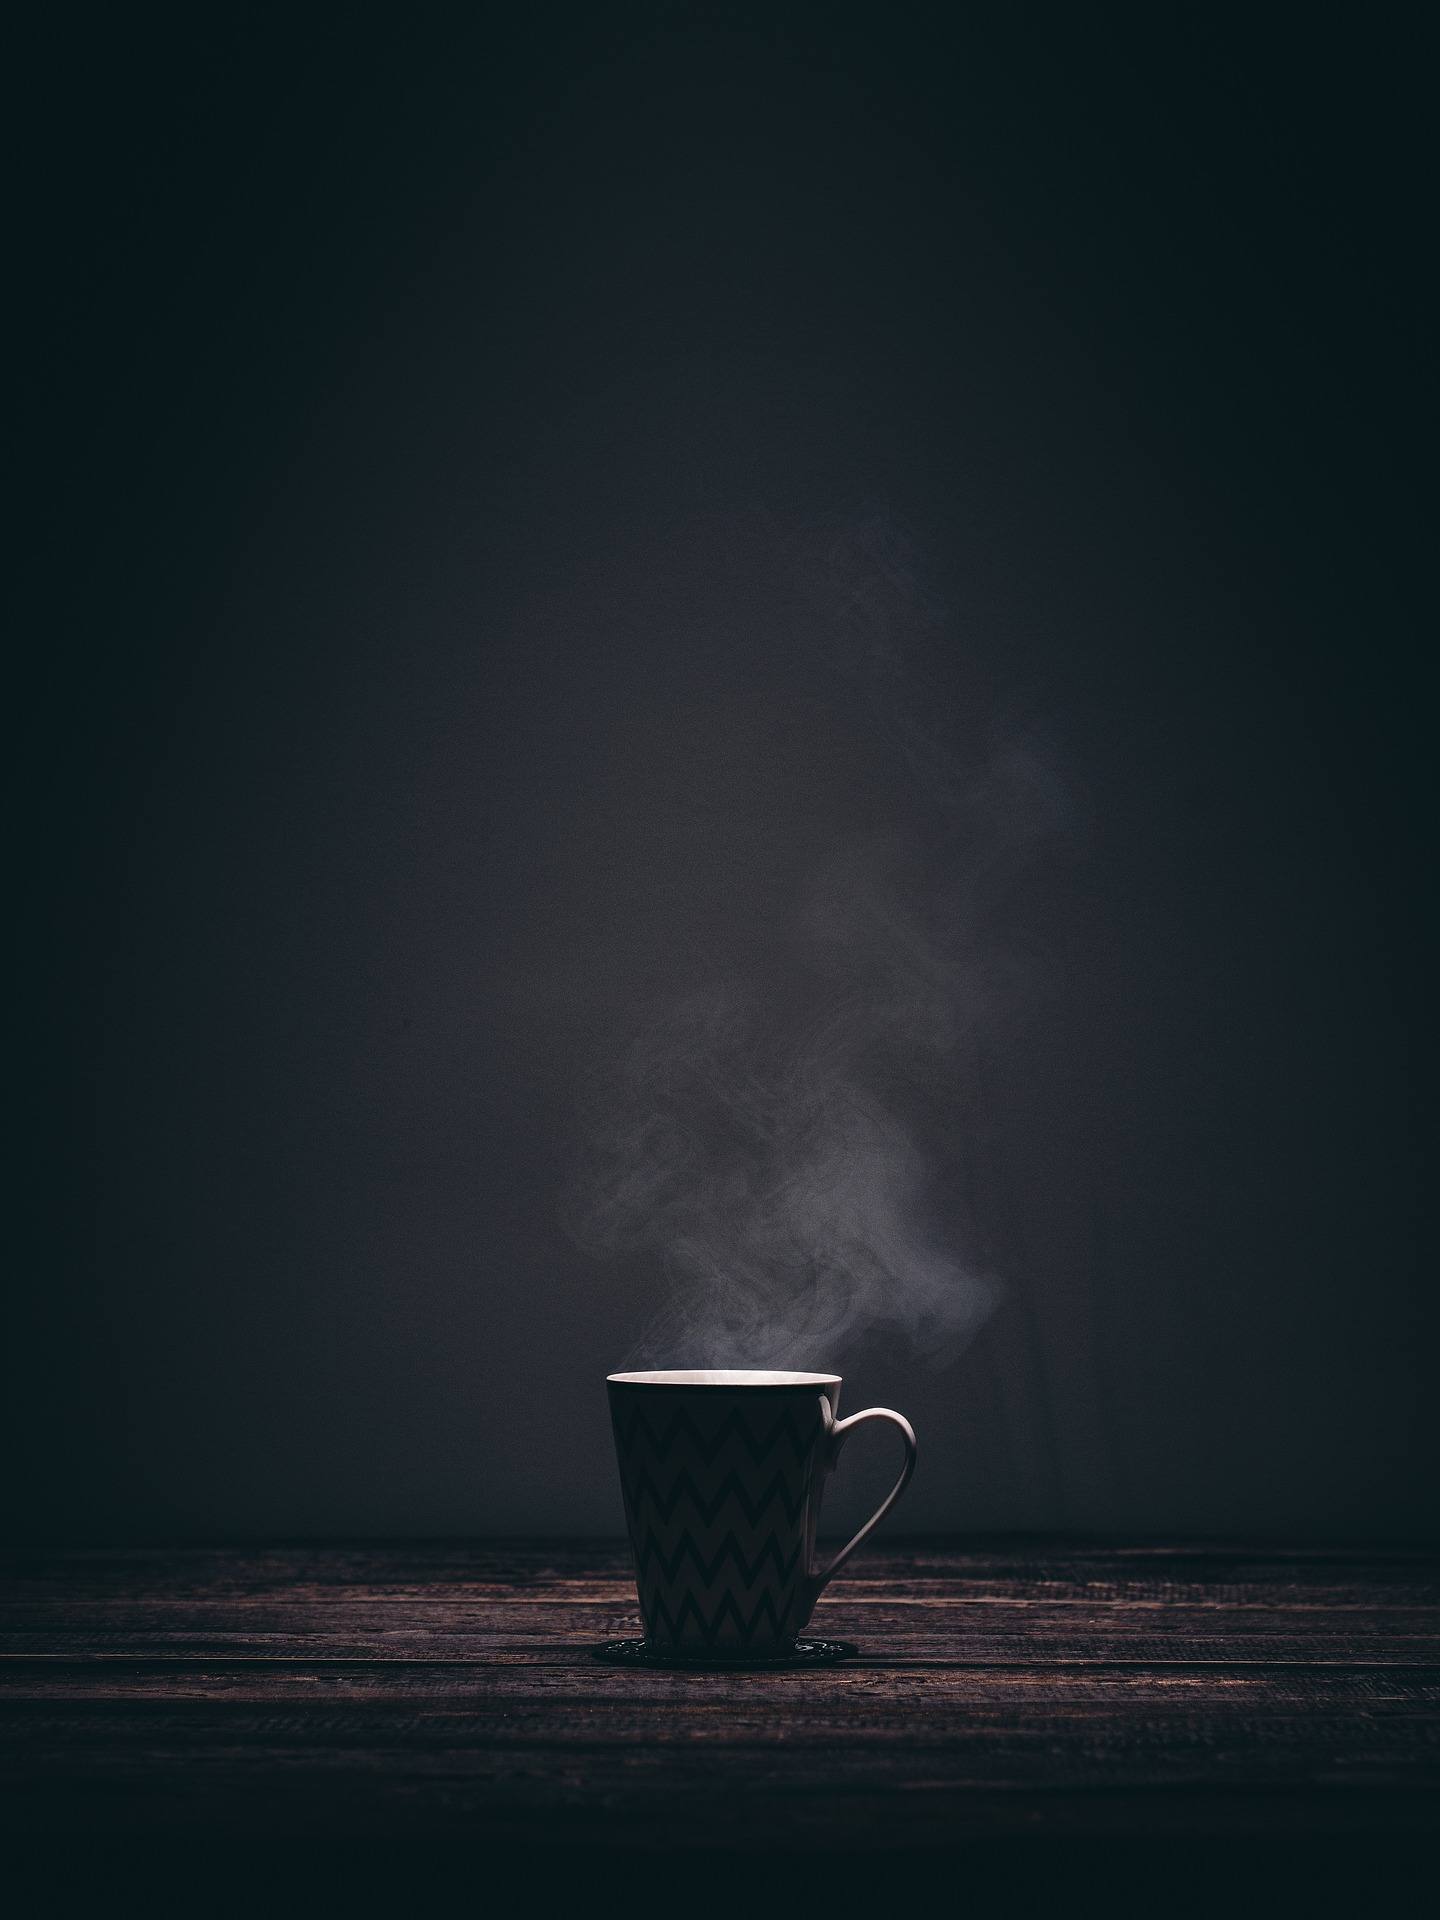
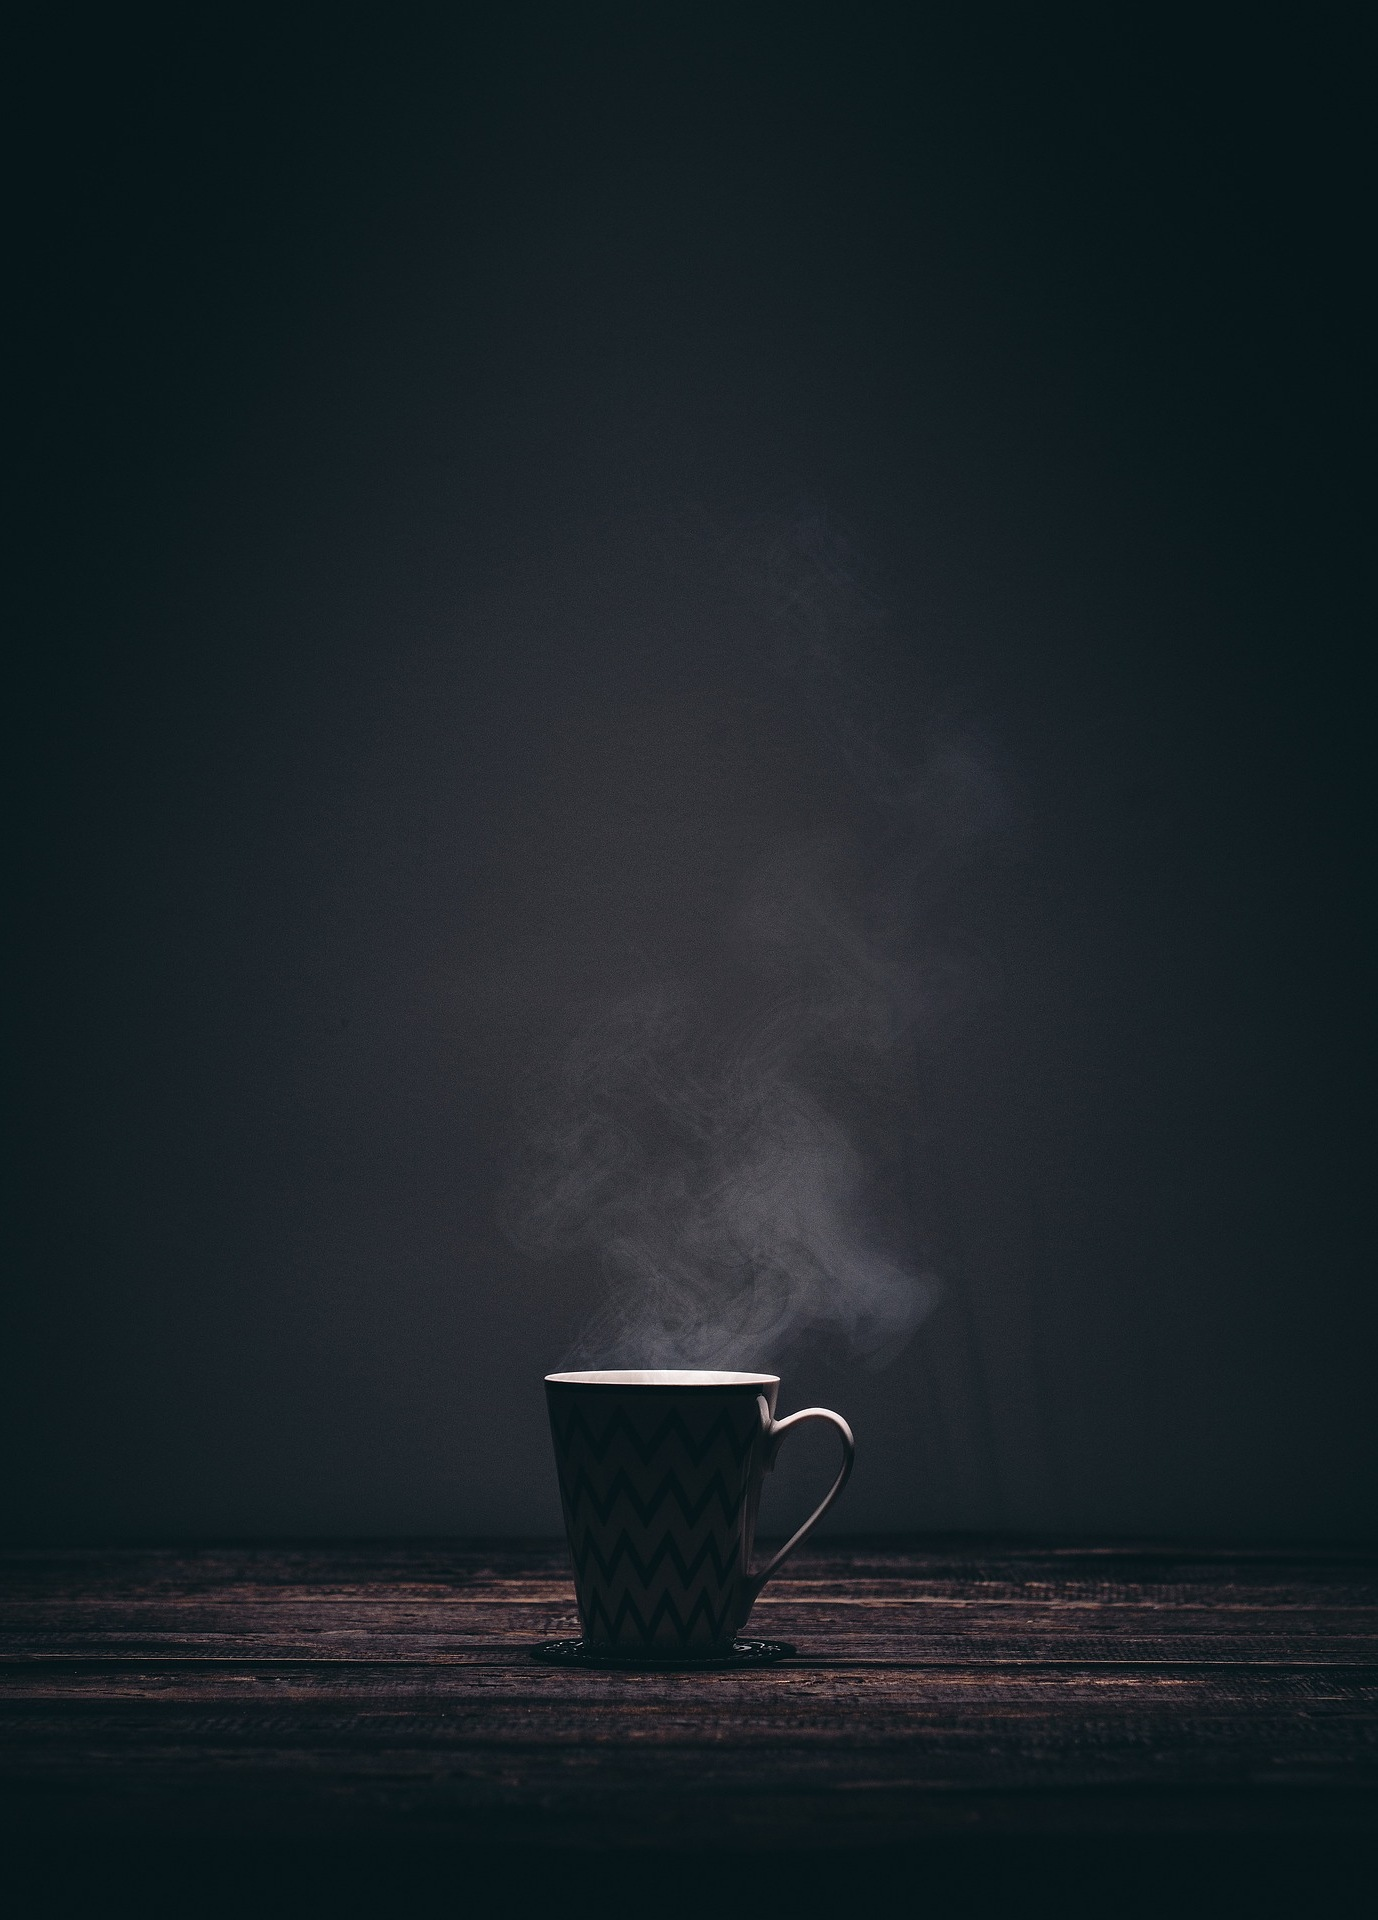
UI fixes.

diff --git a/assets/css/style.css b/assets/css/style.css
@@ -270,7 +270,7 @@ footer {
 .coworking__body__navbar-main-bg {
   background-image: url(../img/coworking-background.jpg);
   background-position: center;
-  background-size: auto;
+  background-size: cover;
   background-repeat: no-repeat;
 }
 

diff --git a/assets/scss/partials/_coworking.scss b/assets/scss/partials/_coworking.scss
@@ -1,7 +1,7 @@
 .coworking__body__navbar-main-bg {
   background-image: url(../img/coworking-background.jpg);
   background-position: center;
-  background-size: auto;
+  background-size: cover;
   background-repeat: no-repeat;
 }
 
